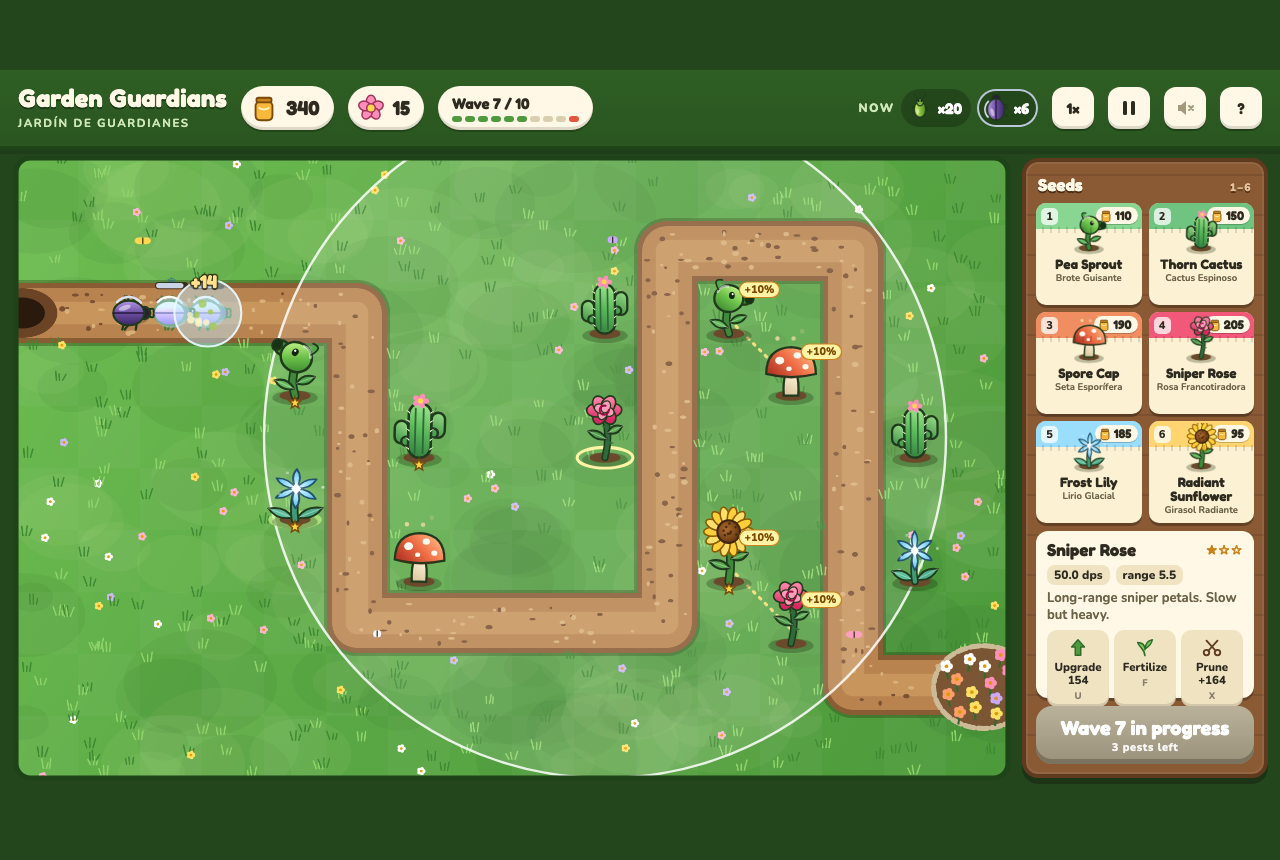
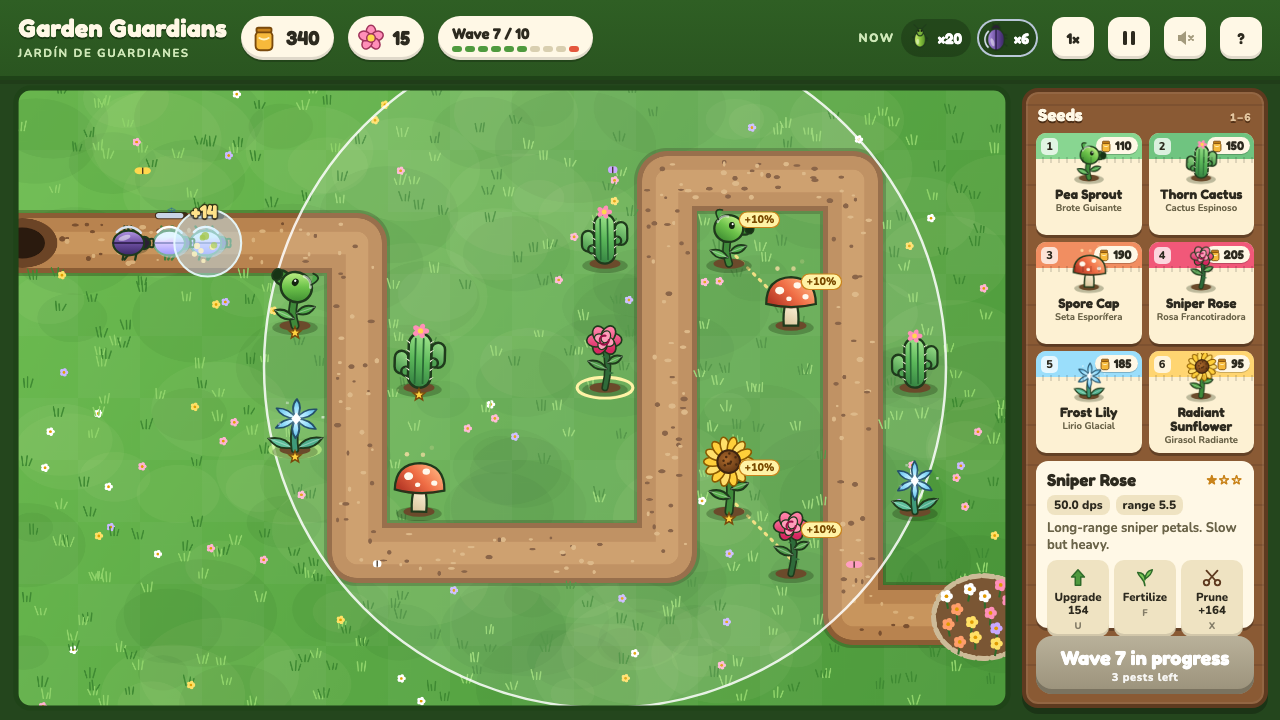
chore(release): 1.4.0 with all six games rebuilt and fresh screenshots

diff --git a/games/index.html b/games/index.html
@@ -24,7 +24,7 @@
   .grid { display:grid; grid-template-columns:repeat(auto-fill,minmax(330px,1fr)); gap:22px; padding-bottom:40px; }
   .card { background:var(--card); border:1px solid var(--line); border-radius:16px; overflow:hidden; display:flex; flex-direction:column; transition:border-color .2s, transform .2s; }
   .card:hover { border-color:#3a4864; transform:translateY(-2px); }
-  .shot { aspect-ratio:16/10.75; background:#000 center/cover no-repeat; border-bottom:1px solid var(--line); }
+  .shot { aspect-ratio:16/9; background:#000 center/cover no-repeat; border-bottom:1px solid var(--line); }
   .body { padding:18px 18px 16px; display:flex; flex-direction:column; gap:8px; flex:1; }
   .meta { color:var(--slate); display:flex; justify-content:space-between; gap:10px; letter-spacing:.06em; font-size:11px; }
   h2 { font-family:"Instrument Serif",Georgia,serif; font-weight:400; font-size:30px; line-height:1.05; margin:4px 0 0; }
@@ -75,10 +75,10 @@ const GAMES = [
     en: "Summon at an aurora-lit shrine. Sixteen hand-drawn creatures, plain card reveals, and the reviewed v2 banner: odds, 50/50 guarantee and exchange always visible, plus your exact chance. Free stars only. English/日本語.",
     ko: "오로라가 흐르는 신사에서 별을 불러 소환합니다. 손으로 그린 크리처 16종과 담백한 카드 공개, 리뷰를 거친 v2 배너(확률·50/50 확정·교환 항상 표시, 정확한 획득 확률)를 담았습니다. 무료 재화만 써요. 영어/일본어.",
     from: { en: "v2 economy config + monetization review", ko: "v2 경제 설정 + 과금 설계 리뷰" } },
-  { slug: "low-tide", title: "Low Tide", orig: "", genre: { en: "Horror chapter", ko: "호러 챕터" }, checks: 9, session: "04-codex-en-horror-lighthouse",
+  { slug: "low-tide", title: "Low Tide", orig: "", genre: { en: "Horror chapter", ko: "호러 챕터" }, checks: 11, session: "04-codex-en-horror-lighthouse",
     agent: "Codex · English",
-    en: "Restore the pump, work the lens, signal the boat. The keeper hunts by sound. Directional captions and reduced flashing built in.",
-    ko: "펌프를 되살리고 렌즈를 돌려 보트에 신호를 보내세요. 관리자는 소리로 쫓아옵니다. 방향 자막과 섬광 줄이기를 기본 지원해요.",
+    en: "Explore a flooding lighthouse by lantern light while the keeper hunts by sound. Lighting, a minimap, spatial audio with directional captions, reduced flashing and touch controls.",
+    ko: "물이 차오르는 등대를 랜턴 불빛에 의지해 탐색하세요. 관리자는 소리로 쫓아옵니다. 조명, 미니맵, 방향 자막이 붙은 공간 음향, 섬광 줄이기, 터치 조작을 갖췄습니다.",
     from: { en: "revised 40-min beat list + accessibility checklist", ko: "수정된 40분 비트 리스트 + 접근성 체크리스트" } },
   { slug: "garden-guardians", title: "Garden Guardians", orig: "Jardín de Guardianes", genre: { en: "Tower defense", ko: "타워 디펜스" }, checks: 12, session: "05-agy-es-garden-td",
     agent: "Antigravity · Español",

diff --git a/CHANGELOG.md b/CHANGELOG.md
@@ -4,6 +4,24 @@ All notable changes to this project are documented here. The format follows
 [Keep a Changelog](https://keepachangelog.com/en/1.1.0/), and the project uses
 [Semantic Versioning](https://semver.org/).
 
+## [1.4.0] - 2026-10-30
+
+### Changed
+- **All six games rebuilt to the Tidecaller bar.** Each now has an illustrated scene as the
+  hero, animation and feedback, synthesized sound, and title, play and end screens, with the
+  design numbers and rules unchanged:
+  - **Garden Guardians:** painted garden and plants, animated pests, projectiles, pollen
+    threads, and a hover preview of range and pollination.
+  - **Stardust Mine:** five painted planets, multiplying rigs, ore streaming to an orbiting
+    hauler, warp transitions, and English/中文.
+  - **Hoshiyobi Island:** an aurora shrine, sixteen individually drawn creatures, plain
+    flip-card reveals, and English/日本語.
+  - **Monster Farm:** a cozy farm with four animated monsters, day light, letter-style reports,
+    and Korean/English.
+  - **Low Tide:** dynamic lighting in a camera-followed lighthouse, spatial audio, a minimap, and
+    touch controls.
+- Self-tests grew from 66 to 81 across the six games, with render, translation and preview checks.
+
 ## [1.3.1] - 2026-10-30
 
 ### Changed
